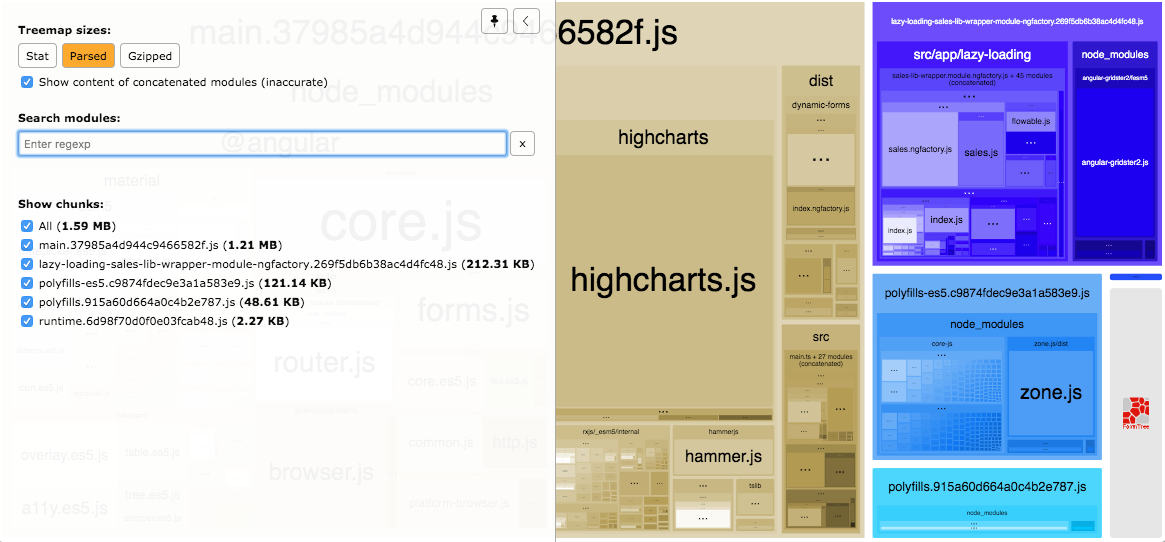
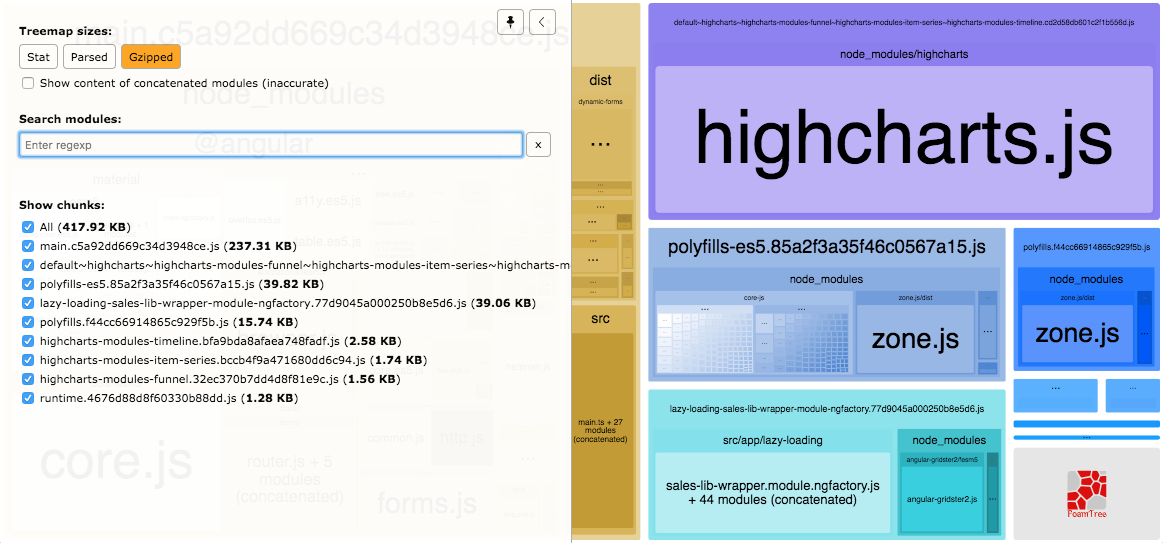
Added support for dynamic import() of Highcharts

diff --git a/src/app/app.module.ts b/src/app/app.module.ts
@@ -28,7 +28,7 @@ import { LoggerService, loggerProviders } from 'utils';
 //
 //
 
-import { DynamicFormsModule } from 'dynamic-forms';
+// import { DynamicFormsModule } from 'dynamic-forms';
 // import { SalesModule } from 'sales';
 
 //
@@ -44,7 +44,7 @@ import { AppRoutingModule } from './app-routing.module';
     // Auth0AuthModule.forRoot(environment),
     // OktaAuthModule.forRoot(environment),
     CoreModule,
-    DynamicFormsModule.forRoot(environment),
+    // DynamicFormsModule.forRoot(environment),
     // SalesModule,
     AppRoutingModule  // https://angular.io/guide/router#routing-module-order
   ],
